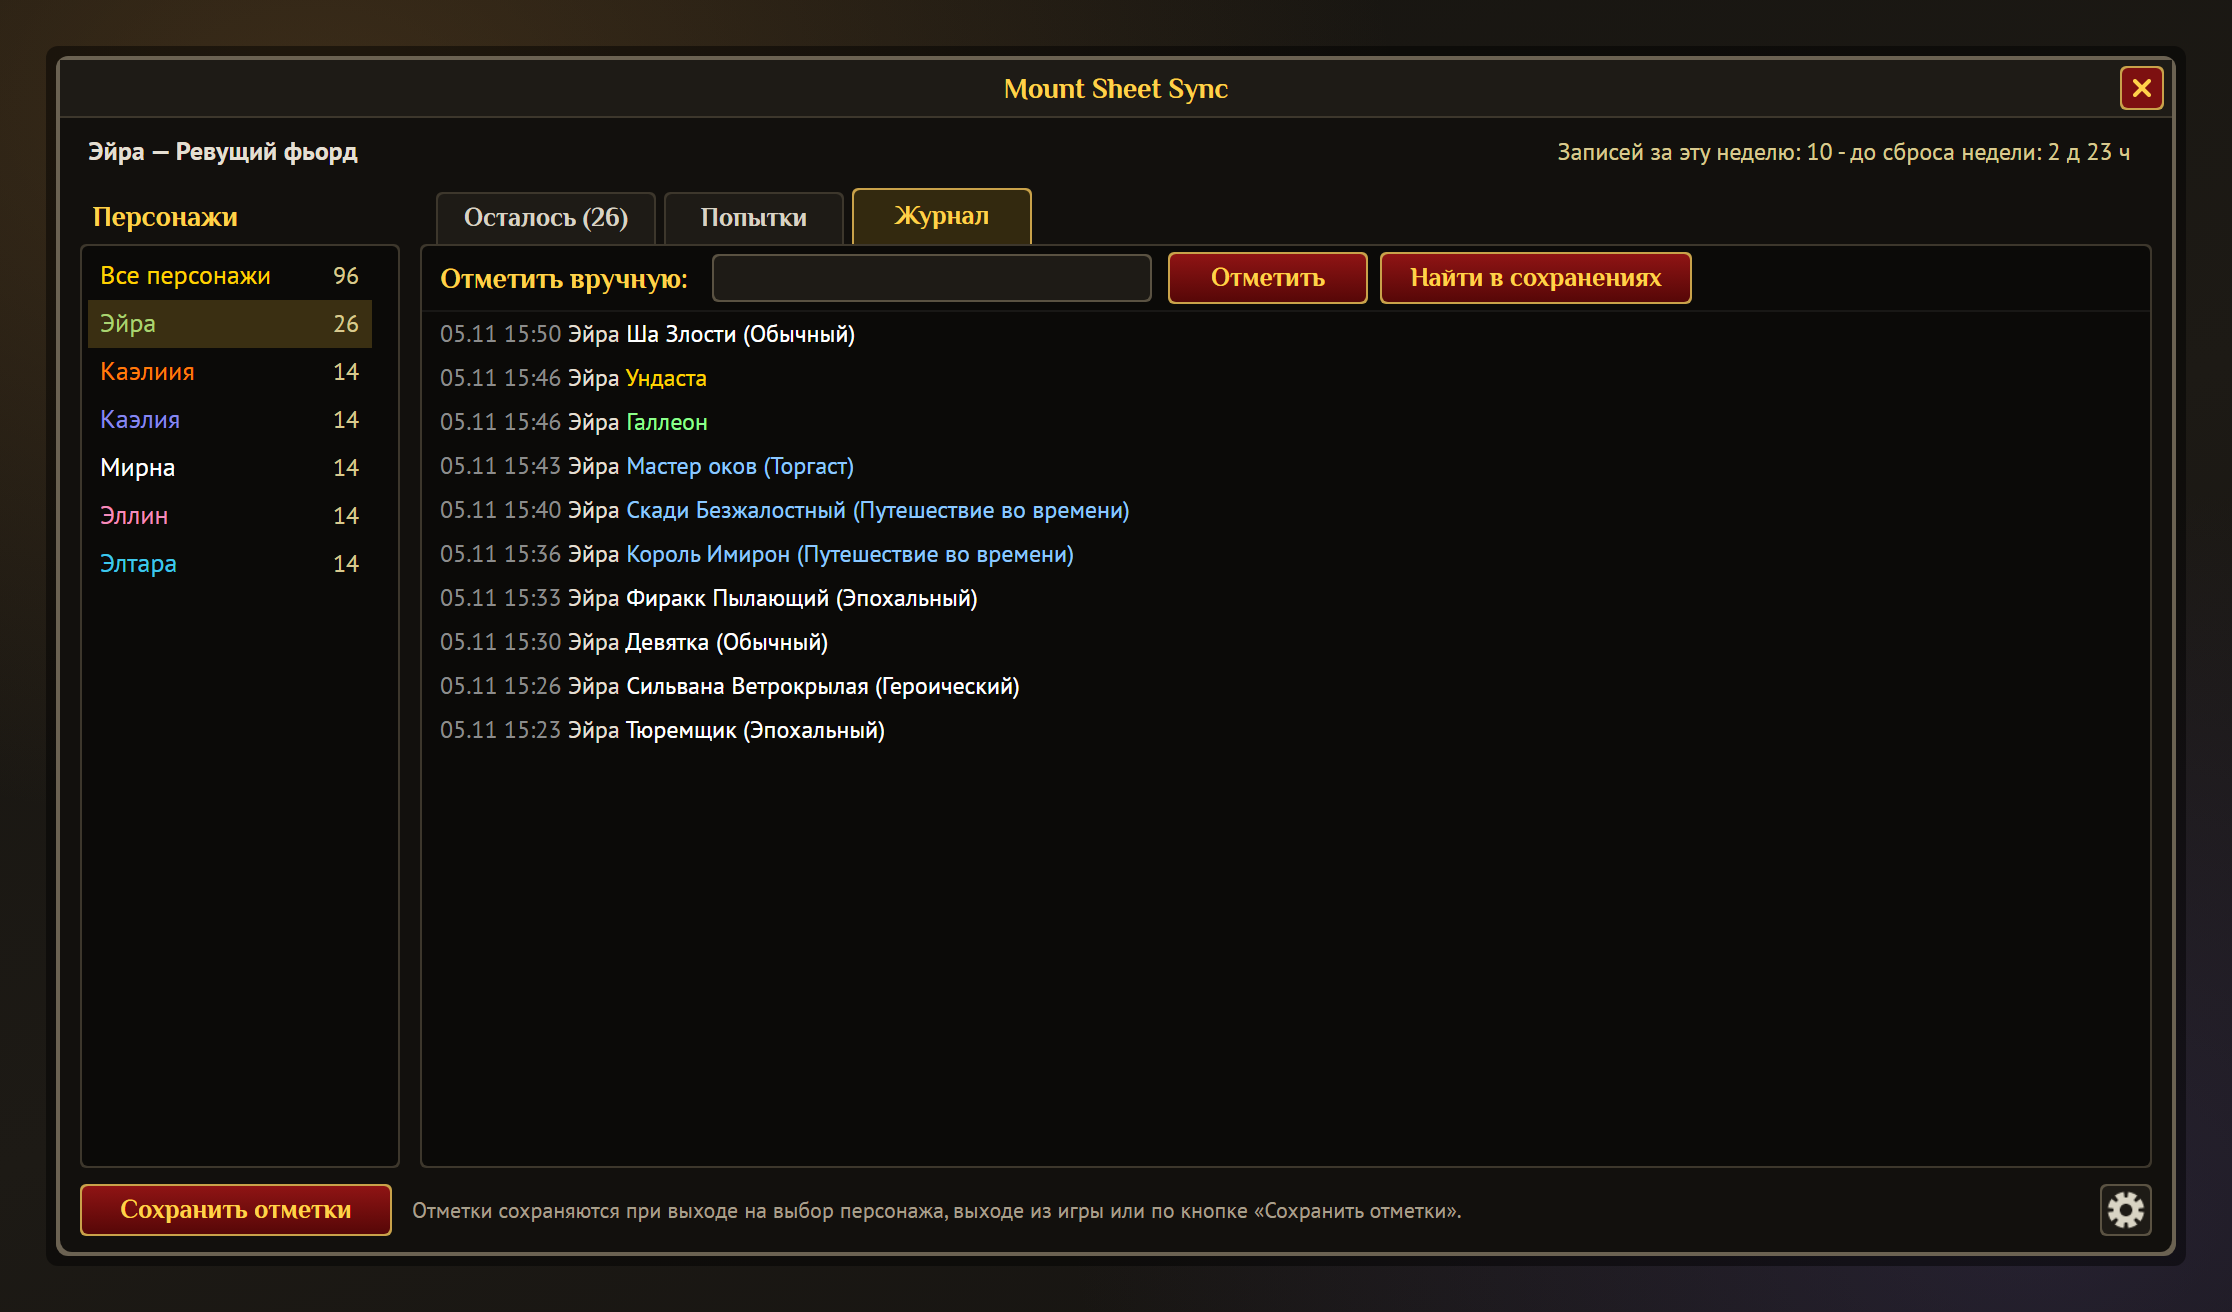
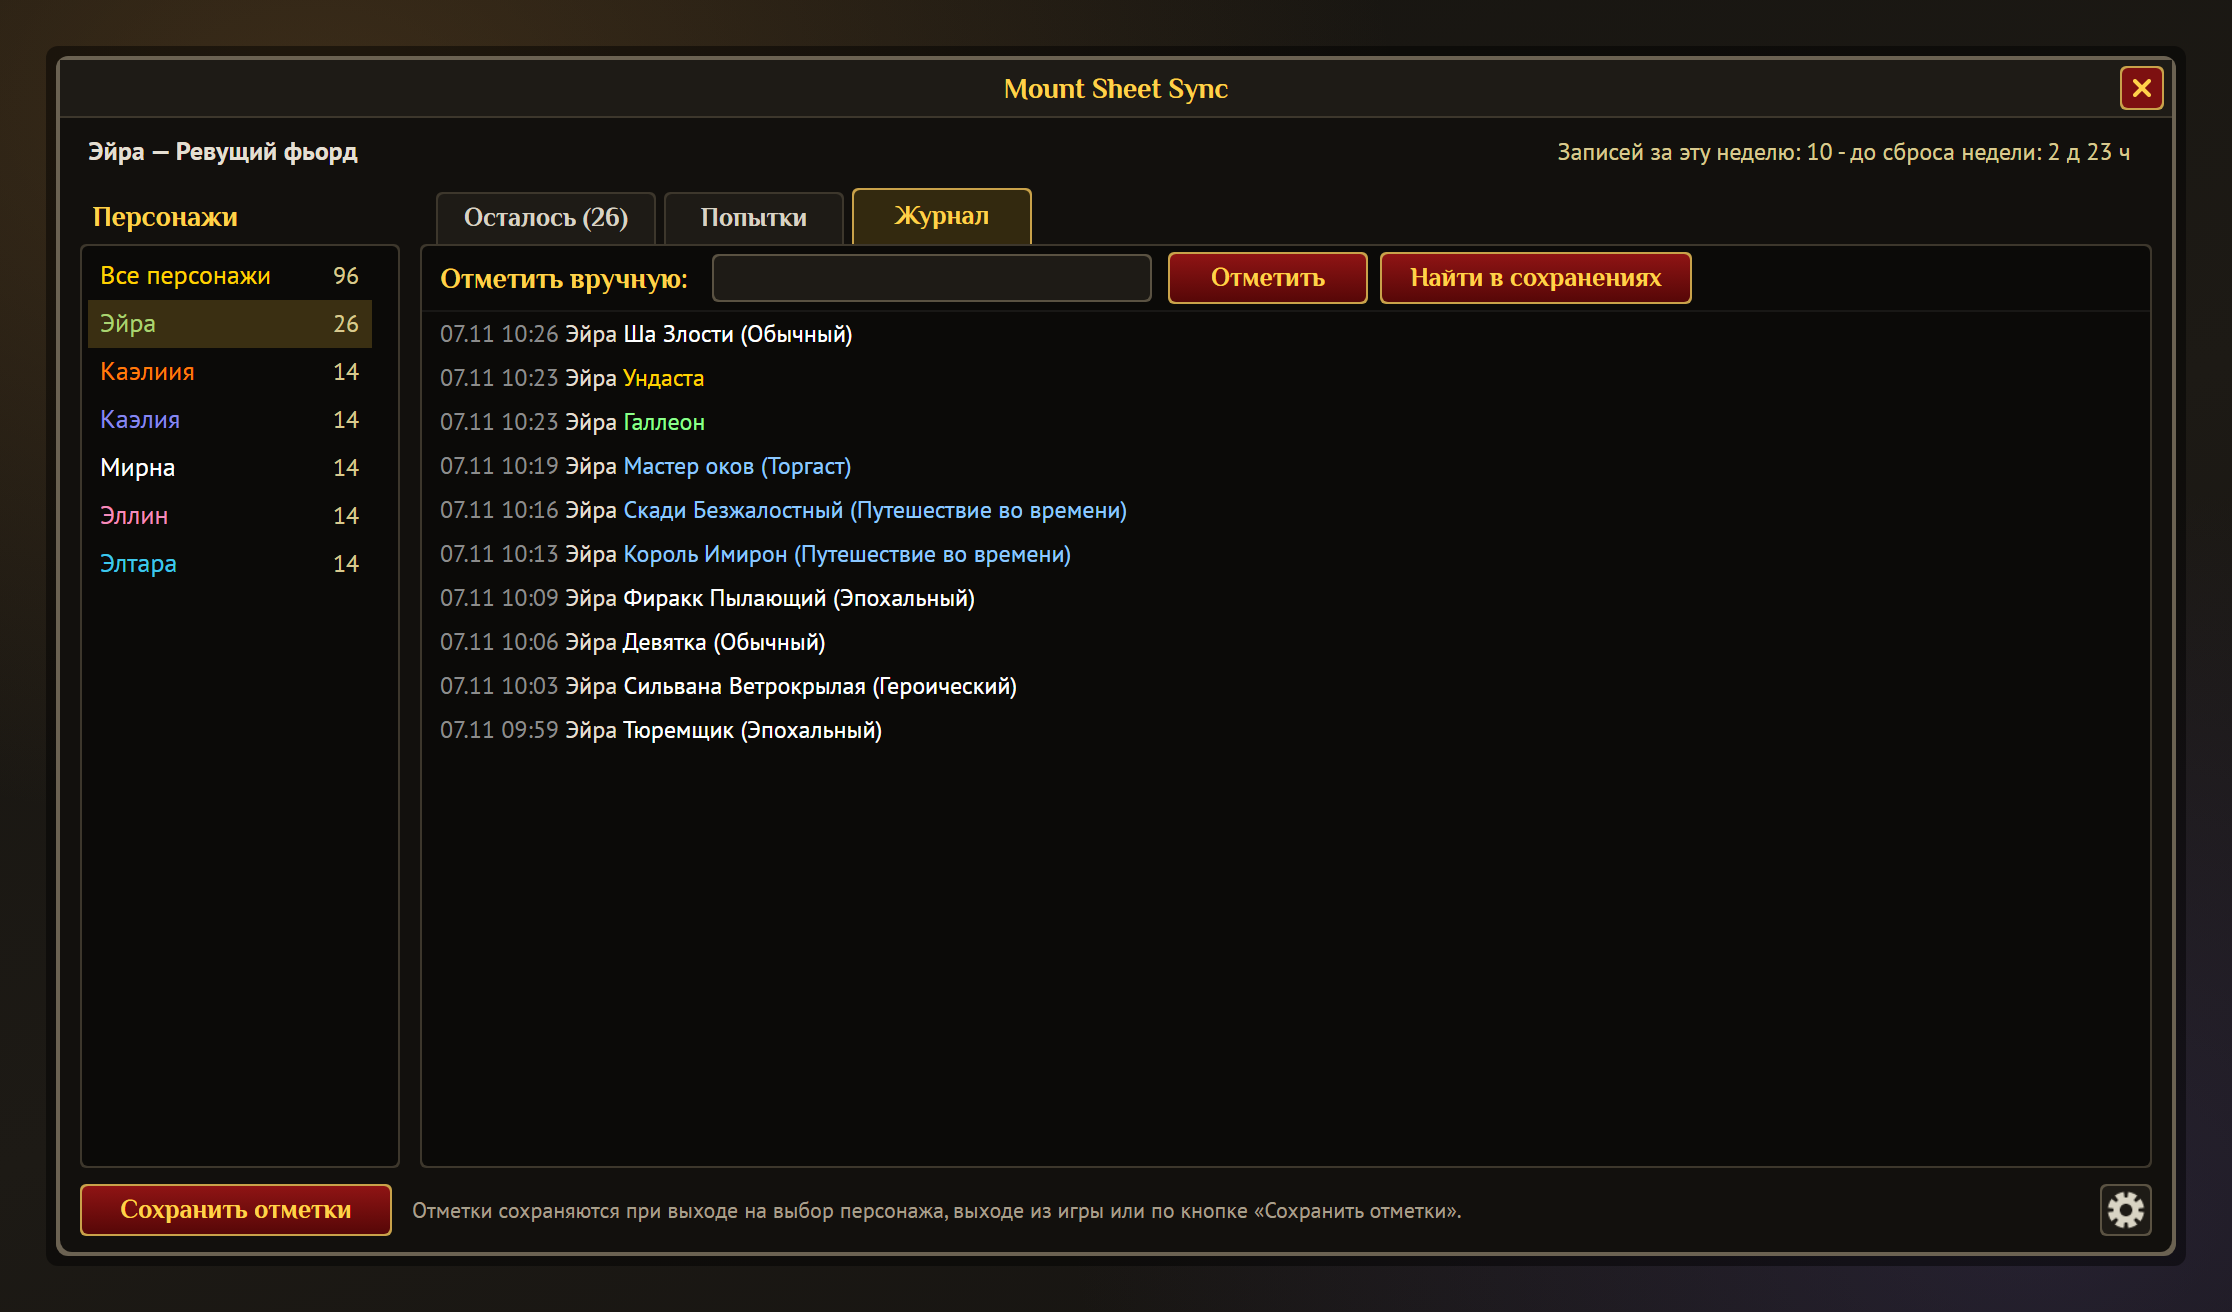
All characters: a faint cross where a character doesn't farm the row
A kill this week and "this character doesn't have the row at all" (no tick in
Farming, or no such group) both showed the same dash. The summary row now
remembers who killed it this week; everyone else gets the close button's
cross, dimmed, and the row tooltip names both groups. README pictures redrawn.

Changed region(s): [[0.2164, 0.25, 0.5255, 0.5625]]

diff --git a/tools/tests/test_addon_left.py b/tools/tests/test_addon_left.py
@@ -355,6 +355,23 @@ check("…a row of the sheet with the number of characters left",
 alive = [gr.dots[i]._w == 10 for i in range(1, len(allr) + 1)]
 want = [allr[i].name in [first.names[j] for j in range(1, len(first.names) + 1)] for i in range(1, len(allr) + 1)]
 check("…one column per character: a dot if the boss is still to kill, a dash if killed", alive == want, (alive, want))
+
+
+def cell_kinds(f):
+    out = []
+    for i in range(1, len(allr) + 1):
+        d, name = f.dots[i], allr[i].name
+        got = "dot" if d._w == 10 else "dash" if d._w == 8 and d._h == 2 else "cross" if str(d._texture).endswith("Media\\Close") else "?"
+        killed = f.elem.killed and f.elem.killed[name]
+        want = "letters" if killed else "dot" if f.elem.names[name] else "dash" if (f.elem.done and f.elem.done[name]) else "cross"
+        out.append((name, got if not killed else "letters", want))
+    return out
+
+
+grid_cells = [k for f in pool(ROW) if f.elem and f.elem.names is not None and f.dots for k in cell_kinds(f)]
+check("…killed this week is a dash, a row the character doesn't have at all is a faint cross", all(got == want for _, got, want in grid_cells),
+      [c for c in grid_cells if c[1] != c[2]][:5])
+check("…both kinds are in the sample, so the check above means something", {"dash", "cross"} <= {w for _, _, w in grid_cells}, sorted({w for _, _, w in grid_cells}))
 check("…the header: boss, difficulty, mount, a column per character, total",
       [plain(c.text._text) for c in head_cells()][:4] == ["Босс", "Слож.", "Маунт", "Всего"] and len(head_cells()) == 4 + len(allr)
       and plain(head_cells()[4].text._text) == str(allr[1].name)[:3], [plain(c.text._text) for c in head_cells()])
@@ -362,6 +379,8 @@ check("…all fit: no scroll bar under the columns", not win.gridSlider._shown)
 gr._scripts.OnEnter(gr)
 tt = [str(g.GameTooltip.lines[i]) for i in range(1, len(g.GameTooltip.lines) + 1)]
 check("…hover: every name in the tooltip", ", ".join(str(first.names[i]) for i in range(1, len(first.names) + 1)) in tt, tt)
+others = [str(allr[i].name) for i in range(1, len(allr) + 1) if not first.names or str(allr[i].name) not in [str(first.names[j]) for j in range(1, len(first.names) + 1)]]
+check("…and the rest: who killed it this week, who doesn't farm it", all(any(n in line and ("Убит на этой неделе" in line or "Не фармят" in line) for line in tt) for n in others), (others, tt))
 gr._scripts.OnLeave(gr)
 # a raid with separate lockouts: the program marks the row, the difficulties killed are in item.k
 sep_ch = None
@@ -382,7 +401,7 @@ sep_mark = sep_row[0].marks[sep_slot]
 check("…N is dark, H and M in the character's colour", plain(sep_mark._text) == "N H M" and "|cff5f5a4eN|r" in str(sep_mark._text), str(sep_mark._text))
 sep_row[0]._scripts.OnEnter(sep_row[0])
 tt = [str(g.GameTooltip.lines[i]) for i in range(1, len(g.GameTooltip.lines) + 1)]
-check("…the tooltip says what is left", "(H, M)" in tt[-1], tt)
+check("…the tooltip says what is left", any("(H, M)" in t for t in tt), tt)
 sep_row[0]._scripts.OnLeave(sep_row[0])
 sep_entry = [e for e in pool(CHAR) if plain(e.name._text) == sep_name][0]
 sep_entry.MockClick(sep_entry); g.RunTimers()

diff --git a/docs/reference/testing.md b/docs/reference/testing.md
@@ -8,7 +8,7 @@ xdotool, stalonetray, imagemagick. В CI — то же (`.github/workflows/ci.ym
 
 | Тест | Что проверяет |
 | --- | --- |
-| `test_addon2.py`, `test_addon_left.py`, `test_minimap.py`, `test_collection.py`, `test_locale.py` | аддон в имитации WoW (`wow_mock.lua`, lupa): названия на языке аддона (из игры или из `names`), окно (персонажи и «Все персонажи» слева, вкладки «Осталось» / «Попытки» / «Журнал», таблицы: столбцы, сортировка и фильтры, сетка с прокруткой и её вид в настройках, шестерёнка → настройки), «Осталось» любого персонажа, коллекция и статистика убийств, все ключи во всех языках и без повторов в `Locales.lua`; скорость с 20+ персонажами и что повторное открытие окна ничего не перестраивает |
+| `test_addon2.py`, `test_addon_left.py`, `test_minimap.py`, `test_collection.py`, `test_locale.py` | аддон в имитации WoW (`wow_mock.lua`, lupa): названия на языке аддона (из игры или из `names`), ячейки сетки «Все персонажи» (кружок, чёрточка, крестик), окно (персонажи и «Все персонажи» слева, вкладки «Осталось» / «Попытки» / «Журнал», таблицы: столбцы, сортировка и фильтры, сетка с прокруткой и её вид в настройках, шестерёнка → настройки), «Осталось» любого персонажа, коллекция и статистика убийств, все ключи во всех языках и без повторов в `Locales.lua`; скорость с 20+ персонажами и что повторное открытие окна ничего не перестраивает |
 | `test_offline.py` | пометка «офлайн» по `Program.lua`, «нужен аддон новее» / «программа устарела», порядок версий |
 | `test_release_plan.py` | какие теги и выпуски делает `tools/release_plan.sh` (программа / аддон / оба, release / alpha / beta) |
 | `test_attempts_addon.py` | строка попытки в чате, подсказка босса (и её кеш), Атлас, вкладка «Попытки», рары (добыча, запомненное имя: цель, курсор, табличка; откат daily / weekly / часы; группа в окне, подсказка), «Сведения для отчёта» |

diff --git a/CHANGELOG-addon.md b/CHANGELOG-addon.md
@@ -3,6 +3,7 @@
 The addon and the Windows program are released separately; the program's changes are in CHANGELOG.md on GitHub.
 
 ## 3.0.4
+- All characters: a character who doesn't farm a row (no tick in “Farming”, or no such group) now gets a faint cross instead of the same dash as a kill this week. The row tooltip names who killed it this week and who doesn't farm it.
 - Mount, boss and place names follow the addon's language, not the sheet's. In the game's language they come from the game itself; in another one from translations the program sends (English and Russian; other languages get English). Needs the program 2.10.0.
 - Without a Google sheet the addon talks about the list: the button is “Save marks”, and no text mentions a sheet. With a sheet everything stays as it was, including “Send to sheet”.
 - Achievements and rewards (Glory of the Hero, Keystone Master and the like) have a group of their own at the end of the table and no longer count as left to kill, because they aren't boss kills. Needs the program 2.10.0.
